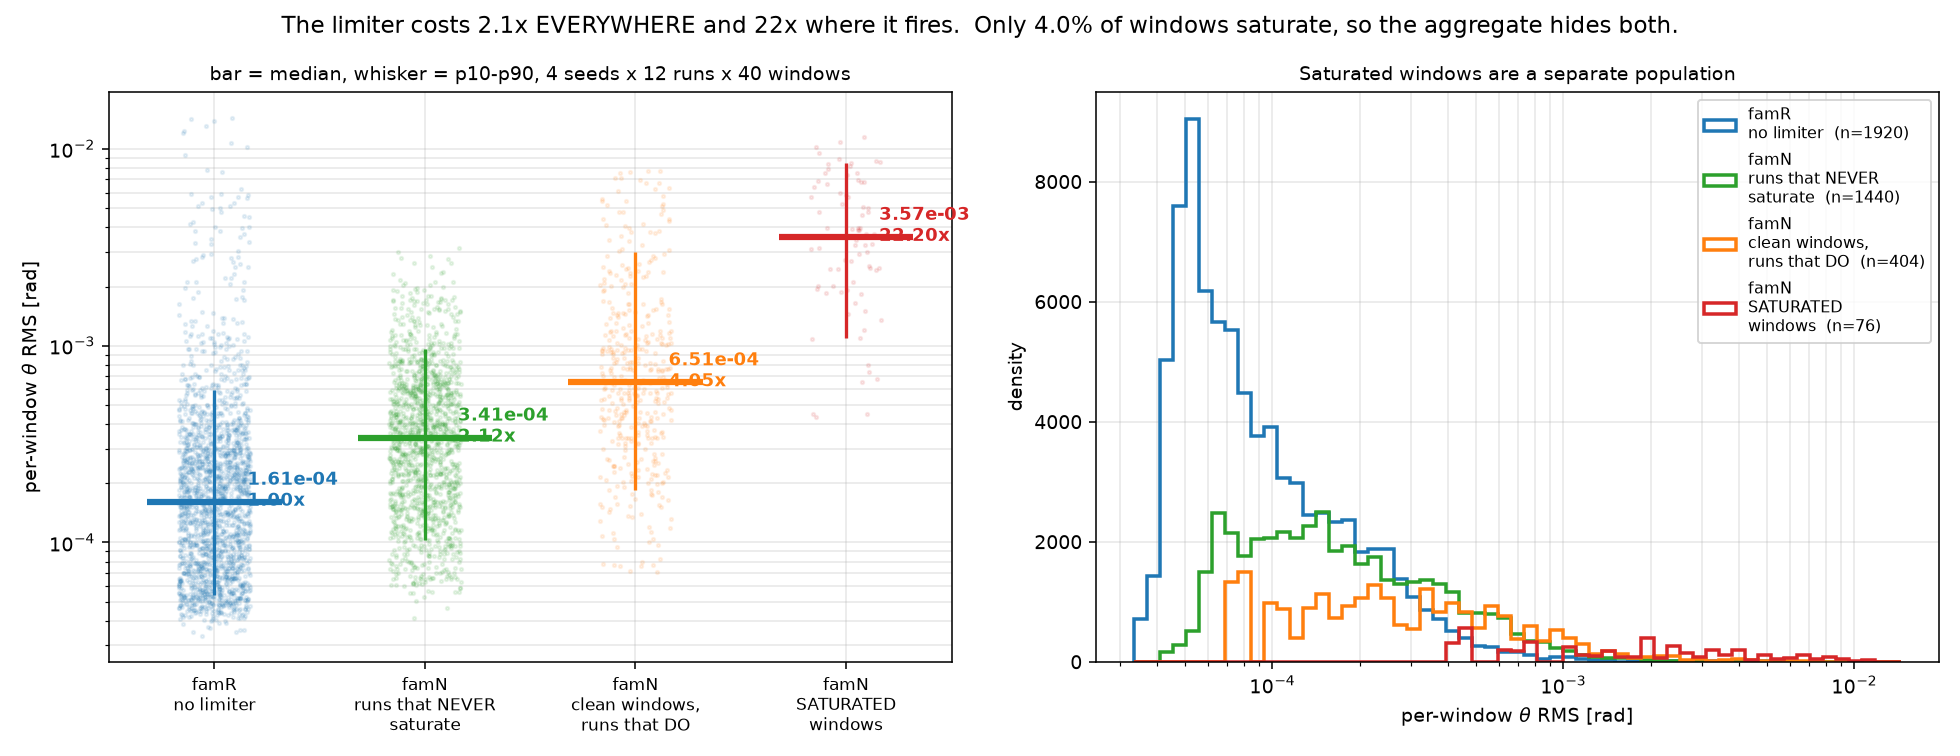
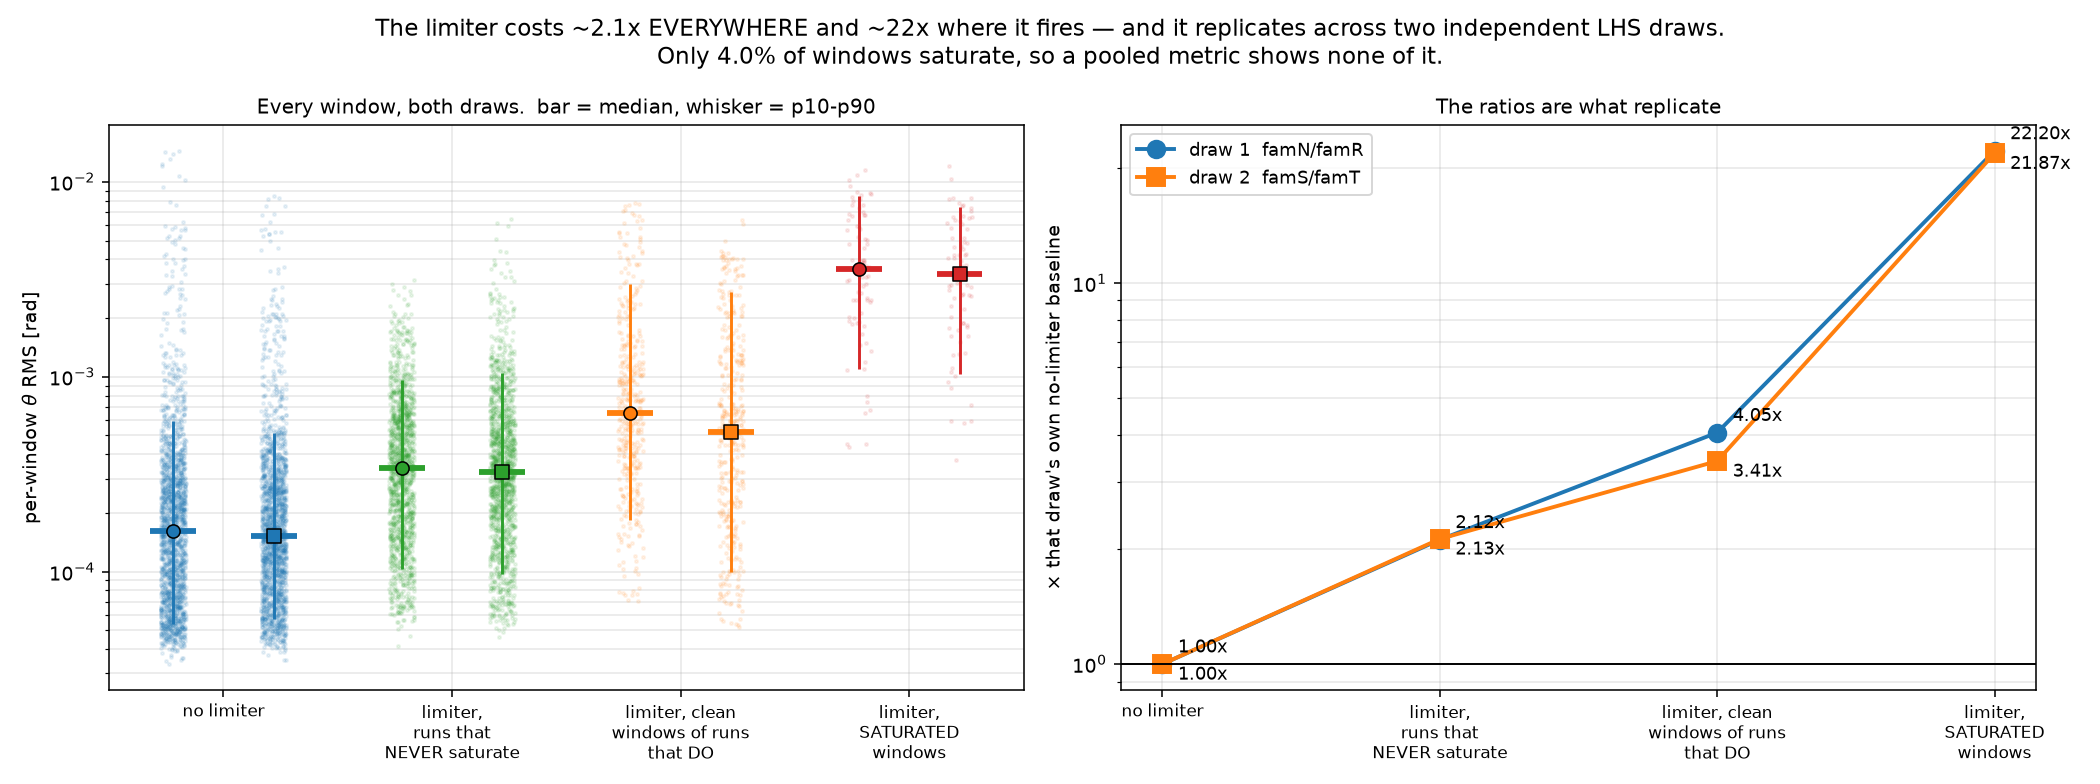
Combine graphs 24 and 27 into one two-draw figure
Same measurement, two independent LHS draws, plotted side by side and never
pooled -- pooling would hide the replication, which is the result. The right
panel puts both ratio curves on one axis and they lie on top of each other.

diff --git a/src/limiter_report.py b/src/limiter_report.py
@@ -76,17 +76,15 @@ def per_window(model, ck, V, th_t, om_t, u, limit):
     return out
 
 
-def main():
-    p = argparse.ArgumentParser()
-    p.add_argument("--out", default="24_limiter_cost.png")
-    p.add_argument("--limited", default="famN_W40",
-                   help="the family WITH the limiter. famS_W40 is famN re-drawn at seed 25")
-    p.add_argument("--unlimited", default="famR_W40",
-                   help="its paired twin WITHOUT the limiter, same --lhs_seed")
-    a = p.parse_args()
+GROUPS = ("no limiter", "limiter,\nruns that\nNEVER saturate",
+          "limiter, clean\nwindows of runs\nthat DO", "limiter,\nSATURATED\nwindows")
+GCOL = ("tab:blue", "tab:green", "tab:orange", "tab:red")
 
+
+def one_pair(limited, unlimited):
+    """The four groups for ONE draw. Returns [(label, values)] plus the saturated fraction."""
     runs = {}
-    for fam, limit in ((a.unlimited, None), (a.limited, LIMIT)):
+    for fam, limit in ((unlimited, None), (limited, LIMIT)):
         Va, Vb, Vc, th_t, om_t, u = truth(limit)
         paths = sorted(q for q in glob.glob(f"runs/{fam}_*sp0.pth") if "_L" not in q)
         if not paths:
@@ -97,58 +95,82 @@ def main():
             acc += per_window(m, ck, (Va, Vb, Vc), th_t, om_t, u, limit)
             torch.set_default_dtype(torch.float64)
         runs[fam] = acc
-        print(f"{fam}: {len(paths)} seeds x {len(acc)//len(paths)} runs")
+        print(f"  {fam}: {len(paths)} seeds x {len(acc)//len(paths)} runs")
     PS.pll_constants.freq_limit = None
 
-    R, Nn = runs[a.unlimited], runs[a.limited]
+    R, Nn = runs[unlimited], runs[limited]
     quiet = [i for i, (e, sat) in enumerate(Nn) if not sat.any()]
     noisy = [i for i, (e, sat) in enumerate(Nn) if sat.any()]
-    first = [int(np.argmax(sat)) for e, sat in Nn if sat.any()]
+    return ([np.concatenate([e for e, _ in R]),
+             np.concatenate([Nn[i][0] for i in quiet]),
+             np.concatenate([Nn[i][0][~Nn[i][1]] for i in noisy]),
+             np.concatenate([Nn[i][0][Nn[i][1]] for i in noisy])],
+            float(np.mean([sat.mean() for _, sat in Nn])),
+            int(np.median([np.argmax(sat) for _, sat in Nn if sat.any()])))
 
-    groups = [
-        (a.unlimited.split("_")[0] + "\nno limiter", np.concatenate([e for e, _ in R]), "tab:blue"),
-        (a.limited.split("_")[0] + "\nruns that NEVER\nsaturate", np.concatenate([Nn[i][0] for i in quiet]), "tab:green"),
-        (a.limited.split("_")[0] + "\nclean windows,\nruns that DO", np.concatenate([Nn[i][0][~Nn[i][1]] for i in noisy]), "tab:orange"),
-        (a.limited.split("_")[0] + "\nSATURATED\nwindows", np.concatenate([Nn[i][0][Nn[i][1]] for i in noisy]), "tab:red"),
-    ]
-    ref = np.median(groups[0][1])
-    print(f"\nruns that never saturate: {len(quiet)}/{len(Nn)}  |  first saturated window: "
-          f"median {int(np.median(first))} of 40")
-    print(f"\n{'group':44s} {'n':>7s} {'median':>11s} {'p90':>11s} {"vs " + a.unlimited.split("_")[0]:>9s}")
-    for lab, v, _ in groups:
-        print(f"{lab.replace(chr(92)+chr(110), ' '):44s} {len(v):7d} {np.median(v):11.3e} "
-              f"{np.quantile(v, .9):11.3e} {np.median(v)/ref:8.2f}x")
+
+def main():
+    p = argparse.ArgumentParser()
+    p.add_argument("--out", default="24_limiter_cost.png")
+    p.add_argument("--pairs", nargs="+",
+                   default=["famN_W40,famR_W40", "famS_W40,famT_W40"],
+                   help="limited,unlimited per draw. The two draws are plotted SIDE BY "
+                        "SIDE and never pooled -- pooling would hide the replication, "
+                        "which is the whole result.")
+    a = p.parse_args()
+
+    draws = []
+    for i, pr in enumerate(a.pairs):
+        lim, unl = pr.split(",")
+        print(f"draw {i+1}: {lim} vs {unl}")
+        vals, satfrac, first = one_pair(lim, unl)
+        draws.append((f"draw {i+1}\n{lim.split('_')[0]}/{unl.split('_')[0]}", vals, satfrac, first))
+
+    print(f"\n{'group':34s}" + "".join(f"{d[0].splitlines()[0]:>22s}" for d in draws))
+    for gi, g in enumerate(GROUPS):
+        row = ""
+        for _, vals, _, _ in draws:
+            row += f"{np.median(vals[gi]):11.3e}{np.median(vals[gi])/np.median(vals[0]):8.2f}x"
+        print(f"{g.replace(chr(10), ' '):34s}{row}")
 
     import matplotlib.pyplot as plt
     rng = np.random.default_rng(0)
-    fig, ax = plt.subplots(1, 2, figsize=(14, 5.4))
-    for i, (lab, v, c) in enumerate(groups):
-        ax[0].scatter(np.full(len(v), i) + rng.uniform(-.17, .17, len(v)), v,
-                      s=3, alpha=.10, color=c, zorder=2)
-        ax[0].hlines(np.median(v), i - .32, i + .32, color=c, lw=3.2, zorder=4)
-        ax[0].vlines(i, np.quantile(v, .1), np.quantile(v, .9), color=c, lw=1.7, zorder=3)
-        ax[0].annotate(f"{np.median(v):.2e}\n{np.median(v)/ref:.2f}x",
-                       (i, np.median(v)), textcoords="offset points", xytext=(17, -2),
-                       fontsize=9, color=c, fontweight="bold")
-    ax[0].set_xticks(range(4))
-    ax[0].set_xticklabels([g[0].replace(chr(92)+chr(110), chr(10)) for g in groups], fontsize=8.5)
-    ax[0].set_yscale("log"); ax[0].grid(alpha=.3, which="both")
+    fig, ax = plt.subplots(1, 2, figsize=(15, 5.6))
+    nd = len(draws)
+    off = np.linspace(-.22, .22, nd) if nd > 1 else [0.0]
+    mk = ("o", "s", "^")
+    for di, (dlab, vals, satfrac, first) in enumerate(draws):
+        for gi, v in enumerate(vals):
+            x = gi + off[di]
+            ax[0].scatter(np.full(len(v), x) + rng.uniform(-.055, .055, len(v)), v,
+                          s=2.5, alpha=.09, color=GCOL[gi], zorder=2)
+            ax[0].hlines(np.median(v), x - .1, x + .1, color=GCOL[gi], lw=3, zorder=4)
+            ax[0].vlines(x, np.quantile(v, .1), np.quantile(v, .9), color=GCOL[gi],
+                         lw=1.5, zorder=3)
+            ax[0].scatter([x], [np.median(v)], marker=mk[di % 3], s=46, color=GCOL[gi],
+                          edgecolor="k", lw=.8, zorder=5)
+        ax[1].plot(range(4), [np.median(v) / np.median(vals[0]) for v in vals],
+                   "-" + mk[di % 3], lw=2, ms=9, label=dlab.replace("\n", "  "))
+        for gi, v in enumerate(vals):
+            ax[1].annotate(f"{np.median(v)/np.median(vals[0]):.2f}x", (gi, np.median(v)/np.median(vals[0])),
+                           textcoords="offset points", xytext=(8, 6 - 14 * di), fontsize=9)
+
+    for k in (0, 1):
+        ax[k].set_xticks(range(4)); ax[k].set_xticklabels(GROUPS, fontsize=8.5)
+        ax[k].set_yscale("log"); ax[k].grid(alpha=.3, which="both")
     ax[0].set_ylabel("per-window $\\theta$ RMS [rad]")
-    ax[0].set_title("bar = median, whisker = p10-p90, 4 seeds x 12 runs x 40 windows",
-                    fontsize=10)
+    ax[0].set_title("Every window, both draws.  bar = median, whisker = p10-p90",
+                    fontsize=10.5)
+    ax[1].set_ylabel("$\\times$ that draw's own no-limiter baseline")
+    ax[1].set_title("The ratios are what replicate", fontsize=10.5)
+    ax[1].legend(fontsize=9.5); ax[1].axhline(1, color="k", lw=1)
 
-    lo = min(g[1].min() for g in groups); hi = max(g[1].max() for g in groups)
-    bins = np.logspace(np.log10(lo), np.log10(hi), 60)
-    for lab, v, c in groups:
-        ax[1].hist(v, bins=bins, histtype="step", lw=1.8, color=c, density=True,
-                   label=f"{lab.replace(chr(92)+chr(110), ' ')}  (n={len(v)})")
-    ax[1].set_xscale("log"); ax[1].set_xlabel("per-window $\\theta$ RMS [rad]")
-    ax[1].set_ylabel("density"); ax[1].legend(fontsize=8); ax[1].grid(alpha=.3, which="both")
-    ax[1].set_title("Saturated windows are a separate population", fontsize=10)
-
-    fig.suptitle("The limiter costs 2.1x EVERYWHERE and 22x where it fires.  "
-                 f"Only {100*np.mean([s.mean() for _, s in Nn]):.1f}% of windows saturate, "
-                 "so the aggregate hides both.", fontsize=12)
+    fr = sorted({f"{100*d[2]:.1f}%" for d in draws})       # both draws agree -> print once
+    sat = fr[0] if len(fr) == 1 else " and ".join(fr)
+    fig.suptitle("The limiter costs ~2.1x EVERYWHERE and ~22x where it fires — "
+                 f"and it replicates across two independent LHS draws.\n"
+                 f"Only {sat} of windows saturate, so a pooled metric shows none of it.",
+                 fontsize=12)
     fig.tight_layout()
     out = _graphs(a.out); fig.savefig(out, dpi=140)
     print(f"\n-> {out}")

diff --git a/README.md b/README.md
@@ -20,7 +20,7 @@ condition, so a 0.5 s trajectory is 40 handovers with no ground truth anywhere i
 > never fires**, 4.05x on clean windows downstream of one that did, and 22.2x on the
 > saturated windows themselves — while only 4% of windows saturate, so the aggregate
 > metric shows none of it — **and that result replicates on a second LHS draw at 2.13x
-> and 21.87x** (F65, `graphs/27`). **F66** is the bigger surprise and is not limiter-specific:
+> and 21.87x** (F65, `graphs/24`). **F66** is the bigger surprise and is not limiter-specific:
 > interior **width** and **depth** had never been tested (`hidden_dim` only ever moved the
 > latent dimension), and neither is flat — width spans **3.1×** even on the plain
 > unlimited problem, so the deployed model has headroom nobody had looked for. On the
@@ -285,7 +285,6 @@ draw different minibatch orders from the same seed.
 | `24` | what the **frequency limiter** costs, split by whether the window saturated |
 | `25` | one run solved with and without the limiter — and whether the surrogate honours the band |
 | `26` | **interior depth and width** — the capacity axes `hidden_dim` never touched |
-| `27` | the limiter's cost on a **second LHS draw** — F65's replication check |
 | `Tunable_Kp_Ki_tests/01`–`06` | the deliverable: model menu, θ/ω split, gain sensitivity, contenders, gain showcase |
 
 ### The three claims that need no caveat

diff --git a/docs/notes.md b/docs/notes.md
@@ -1735,7 +1735,7 @@ knob table. It says the capacity claim in that table is wrong and the deployed m
 headroom that was never explored.
 
 ### F65 — **WHAT THE LIMITER COSTS, DECOMPOSED.** `graphs/24`, `graphs/25`.
-famN vs famR, 4 seeds each, paired ICs. First results from `exp17`, 2026-08-25.
+famN vs famR and famS vs famT, 4 seeds each, paired ICs. `exp17`/`exp18`.
 
 famN and famR are the SAME family generated twice from `--lhs_seed 21`, with and without
 the limiter. **Both are fixed-gain** -- the tunable-gain limited families are famO/famQ --
@@ -1800,8 +1800,9 @@ part of the 2.12x on famN and does nothing on famR, that is a clean mechanistic 
 | SATURATED windows | 22.20x | **21.87x** |
 
 The two load-bearing numbers agree to **0.5%** and **1.5%** on independent draws. F65 is
-confirmed and quotable. `graphs/27`, `src/limiter_report.py --limited famS_W40
---unlimited famT_W40`. The middle row moved most (16%), which is expected -- it depends on
+confirmed and quotable. `graphs/24` plots both draws side by side -- `src/limiter_report.py` defaults to
+exactly that. They are NEVER pooled: pooling would hide the replication, which is the
+result. The middle row moved most (16%), which is expected -- it depends on
 WHICH runs happen to saturate, and that is the quantity a re-draw changes.
 
 The original plan, for the record:
